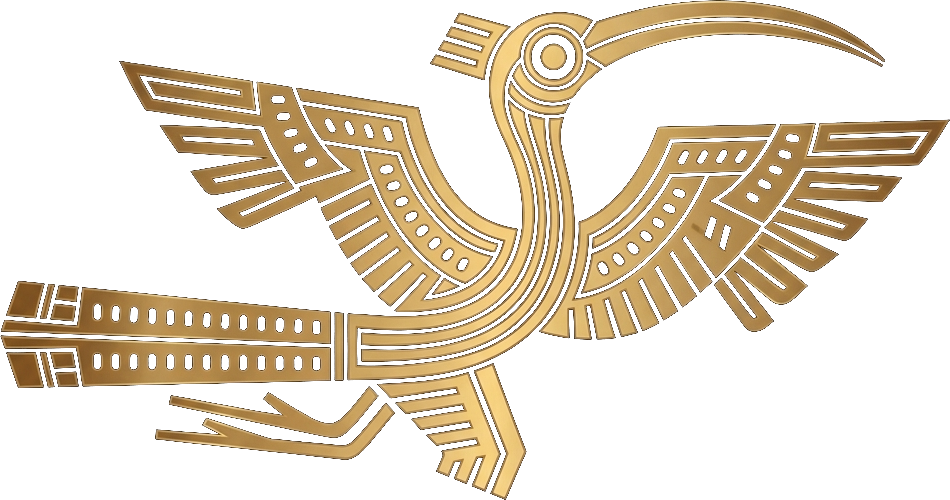
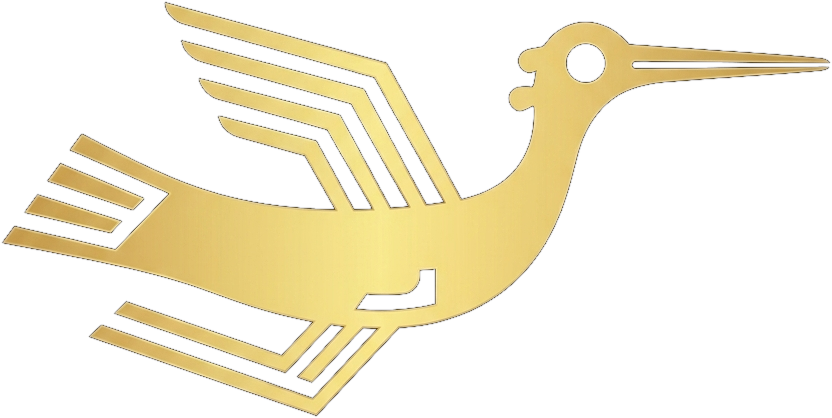
feat(gallery): add simplified golden Chim Lac motif and new 16:9 ancient palace background

diff --git a/src/screens/LookbookScreen.tsx b/src/screens/LookbookScreen.tsx
@@ -407,19 +407,19 @@ export const LookbookScreen: React.FC<LookbookScreenProps> = ({
 
   return (
     <div className="w-full min-h-[calc(100vh-56px)] bg-lacquer text-silk-ivory font-sans pb-16 relative overflow-hidden">
-      {/* ATMOSPHERIC BACKGROUND ENVIRONMENT: Ancient Street Scene under night lantern glow */}
+      {/* ATMOSPHERIC BACKGROUND ENVIRONMENT: 16:9 Ancient Imperial Palace Courtyard & Veranda at Night */}
       <div className="absolute inset-0 pointer-events-none select-none z-0">
         <img
-          src="/assets/events/bg-tet-pho-co.jpg"
-          alt="Không gian cổ phong"
-          className="w-full h-full object-cover object-top opacity-20 filter blur-[1.5px]"
+          src="/assets/backgrounds/gallery-bg.jpg"
+          alt="Không gian cổ lầu hoàng cung"
+          className="w-full h-full object-cover object-center opacity-35 sm:opacity-45 filter brightness-90 contrast-105"
         />
-        {/* Ambient Dark Gradient Overlays */}
-        <div className="absolute inset-0 bg-gradient-to-b from-lacquer via-lacquer/85 to-lacquer" />
-        <div className="absolute inset-0 bg-[radial-gradient(ellipse_at_top,_transparent_20%,_#0A0D12_85%)]" />
-        {/* Soft lantern glow warm highlights */}
-        <div className="absolute top-10 right-1/4 w-96 h-96 rounded-full bg-imperial-red/10 filter blur-[90px]" />
-        <div className="absolute top-20 left-1/4 w-80 h-80 rounded-full bg-imperial-gold/10 filter blur-[80px]" />
+        {/* Ambient Dark Gradient Overlays for High Card Contrast */}
+        <div className="absolute inset-0 bg-gradient-to-b from-lacquer/80 via-lacquer/50 to-lacquer/95" />
+        <div className="absolute inset-0 bg-[radial-gradient(ellipse_at_center,_transparent_30%,_#0A0D12_90%)]" />
+        {/* Warm lantern glow highlights */}
+        <div className="absolute top-12 right-1/4 w-96 h-96 rounded-full bg-imperial-gold/15 filter blur-[100px]" />
+        <div className="absolute top-24 left-1/4 w-80 h-80 rounded-full bg-imperial-red/10 filter blur-[90px]" />
       </div>
 
       {/* 1. GUEST SESSION BANNER (Non-intrusive, allows full browsing) */}
@@ -440,25 +440,25 @@ export const LookbookScreen: React.FC<LookbookScreenProps> = ({
         </div>
       )}
 
-      {/* 2. ARTISTIC EDITORIAL HERO HEADER (Title without badge, Chim Lac Hong motif next to Outfit) */}
+      {/* 2. ARTISTIC EDITORIAL HERO HEADER (Title without badge, Golden Chim Lac Hong motif next to Outfit) */}
       <div className="relative z-10 w-full px-4 sm:px-8 lg:px-12 pt-7 pb-3">
         <div className="flex flex-col md:flex-row md:items-center justify-between gap-6">
-          {/* Left: Title "Bộ Sưu Tập" over "Outfit" + Chim Lạc Hồng Motif */}
+          {/* Left: Title "Bộ Sưu Tập" over "Outfit" + Golden Chim Lạc Hồng Motif */}
           <div className="flex flex-col">
             {/* Line 1: Bộ Sưu Tập */}
             <h1 className="font-serif font-black text-2xl sm:text-3xl lg:text-4xl text-silk-ivory tracking-tight drop-shadow-md leading-none">
               Bộ Sưu Tập
             </h1>
 
-            {/* Line 2: Outfit + Chim Lạc Hồng Motif Asset */}
+            {/* Line 2: Outfit + Golden Chim Lạc Hồng Motif Asset (Simplified, Golden) */}
             <div className="flex items-center gap-3.5 sm:gap-4 mt-2">
               <span className="font-calligraphy text-4xl sm:text-5xl lg:text-6xl text-[#e8c87b] -rotate-2 font-bold drop-shadow-[0_4px_14px_rgba(232,200,123,0.35)] leading-none select-none">
                 Outfit
               </span>
               <img
                 src="/assets/decorations/chim-lac.png"
-                alt="Họa tiết chim Lạc Hồng"
-                className="h-8 sm:h-10 lg:h-11 w-auto object-contain filter drop-shadow-[0_2px_10px_rgba(175,39,41,0.6)] select-none pointer-events-none inline-block hover:scale-105 transition-transform"
+                alt="Họa tiết chim Lạc Hồng vàng kim"
+                className="h-8 sm:h-10 lg:h-11 w-auto object-contain filter drop-shadow-[0_2px_12px_rgba(232,200,123,0.5)] select-none pointer-events-none inline-block hover:scale-105 transition-transform"
               />
             </div>
           </div>
